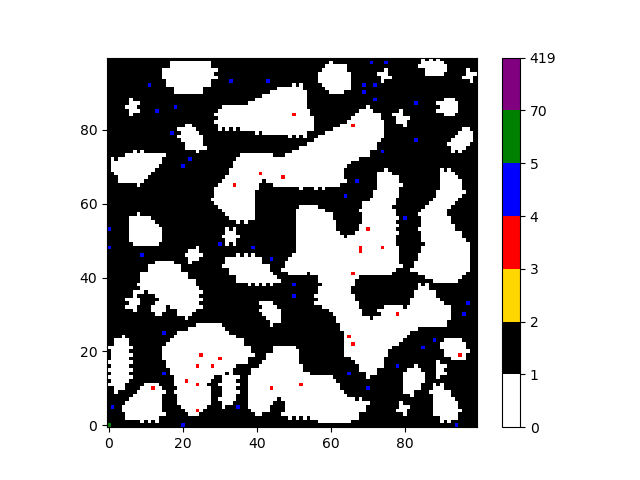
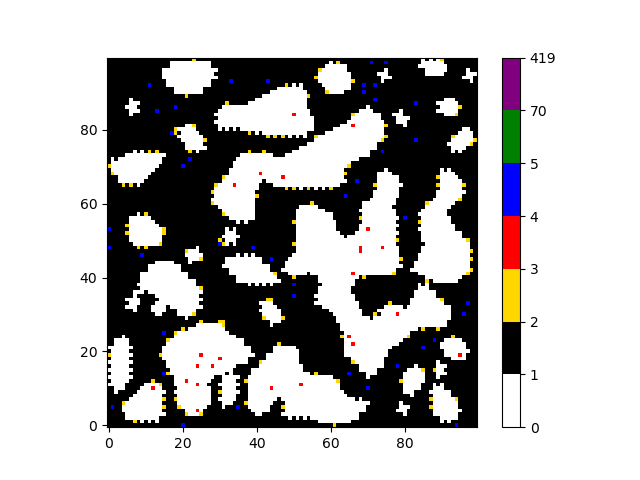
starting bfs

Changed region(s): [[0.25, 0.4688, 0.2812, 0.5]]

diff --git a/src/spawn_and_exit_point.py b/src/spawn_and_exit_point.py
@@ -2,7 +2,7 @@
 import argparse
 from helpers import map_helpers as maps
 import numpy as np # can be del once migrated
-
+import queue
 
 def create_index_matrix(grid):
     table_shape = grid.shape
@@ -18,7 +18,6 @@ def create_index_matrix(grid):
             index += 1
 
     return(new_mat)
-
 
 
 def create_adjacency_matrix(grid):
@@ -52,6 +51,53 @@ def create_adjacency_matrix(grid):
 
 
 
+def find_rooms(game_map, adjacency_matrix, index_matrix):
+
+    map_dim = game_map.shape 
+    num_rows = map_dim[0]
+    num_cols = map_dim[1]
+
+    visited_matrix = np.zeros(shape=(num_rows, num_cols), dtype = int)
+
+    for row in range(num_rows):
+        for col in range(num_cols):
+
+            print(f"Reviewing df[{row}, {col}] out of [{num_rows}, {num_cols}]")
+
+            current_cell = index_matrix[row, col]
+            cell_value = game_map[row, col]
+
+            print(f"Cell Index: {current_cell}, Cell Value: {cell_value}")
+
+            # if our current cell is either blank, an item, or enemy, we can consider that
+            # part of a room, here we want to start a BFS to fully explore the room
+            if cell_value in [0, 2, 3]:
+                
+                q = queue.Queue()
+                q.put(current_cell) # add the current cell's index to queue
+
+                print(q)
+
+                while q.qsize() > 0:
+                    
+                    print(q.qsize())
+
+                    curr = q.get() 
+
+                    print(f"Current in queue: {curr}")
+                    # find neighbors of current element
+                    neighbors = [i for i, value in enumerate(adjacency_matrix[curr]) if value == 1]
+                    print(neighbors)
+
+                    for neighbor in neighbors:
+
+                        # check if visited, only add if not visited AND a valid open cell
+                        if (visited_matrix[neighbor // num_rows, neighbor % num_cols] == 0) and (game_map[neighbor // num_rows, neighbor % num_cols] in [0, 2, 3]):
+                            q.put(neighbor)
+
+                    # outside of for loop, change value of visited cell
+                    game_map[row, col] = 420
+                    visited_matrix[row, col] = 1
 
 
 
@@ -83,8 +129,8 @@ def main():
 
     modified_map = maps.add_detail(new_map, args.prob_item, args.prob_enemy)
     
-    modified_map[0,0] = 69
-    print(modified_map[0, 0])    
+    #modified_map[0,0] = 69
+    #print(modified_map[0, 0])    
     maps.plot_complex_grid(modified_map, f"spawn-points/Test-{test_no}_Base-Map")
 
     
@@ -92,9 +138,28 @@ def main():
 
     ind_mat = results[0]
     adj_mat = results[1]
-    print(ind_mat)
-    print(adj_mat)
+    #print(ind_mat)
+    #print(ind_mat.shape)
+    #print(adj_mat)
+    #print(adj_mat.shape)
+    #print([i for i, value in enumerate(adj_mat[101]) if value == 1]) # find the cell values that are linked to given cell
+    
+    #res = [i for i, value in enumerate(adj_mat[101]) if value == 1]
 
+    #for item in res:
+    #    print(f"The cell ({item // 100}, {item % 100}) neighbors 0, 0")
+
+
+
+    find_rooms(modified_map, adj_mat, ind_mat)
+    maps.plot_complex_grid(modified_map, f"spawn-points/Test-{test_no}_Base-Map_After-Room-Finding")
+    
+    #print(9999 // 100)
+    #print(9999 % 100)
+    #print(103 // 100)
+    #print(103 % 100)
+    #print(9950 // 100)
+    #print(9950 % 100)
 
 
 if __name__ == "__main__":
